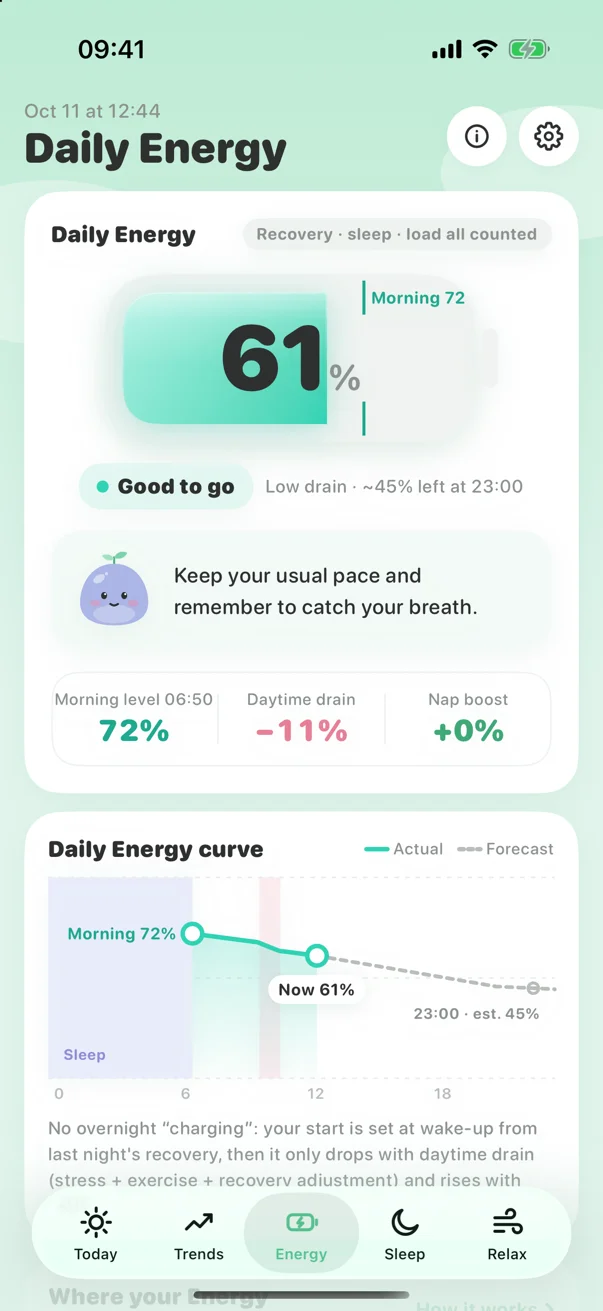
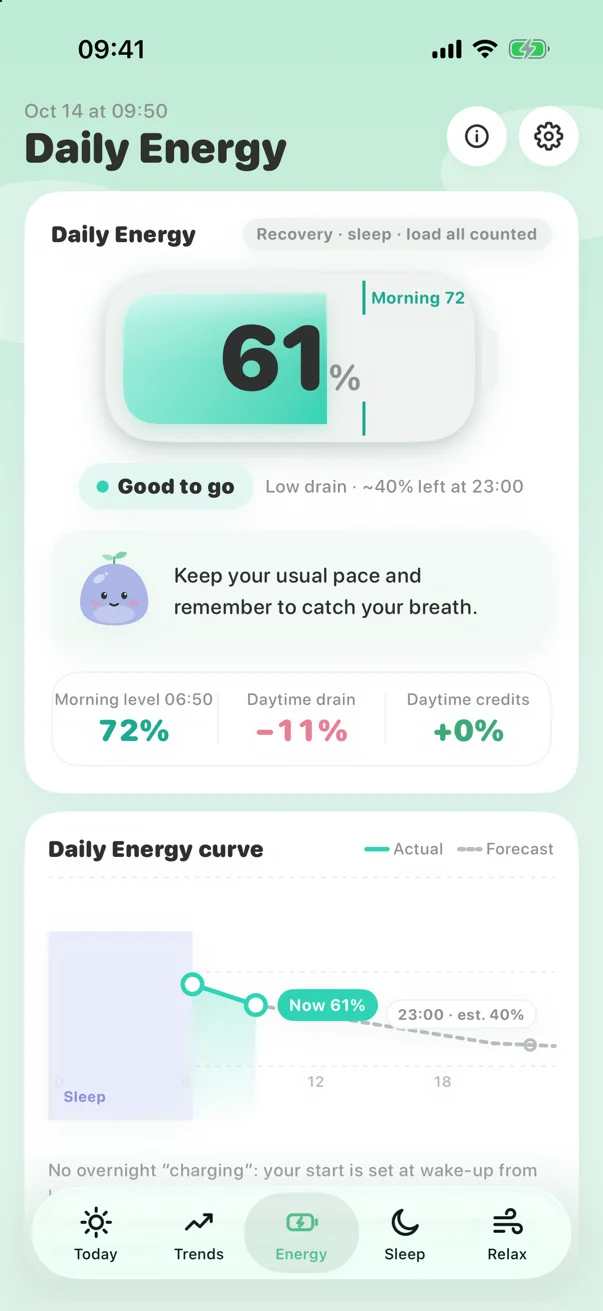
Features step 04: nap → daytime credits (sustained relax / breathing); reshoot Energy screen 白天回补 / Daytime credits (zh/en)

diff --git a/en/index.html b/en/index.html
@@ -14,7 +14,7 @@
 <div class="cta ld" style="--d:4"><a class="appstore" href="https://apps.apple.com/"><img src="../assets/badge-en-us.svg?v=a26fc5b383" alt="Download on the App Store" height="48"></a></div>
 <p class="req ld" style="--d:5">Requires iPhone with iOS 18 or later and a paired Apple Watch (watchOS 11 or later).</p></div>
 <div class="hvis"><div class="stage ld" style="--d:5"><div class="glow"></div>
-<div class="dev p1" data-px="-0.06"><img src="../assets/vigor-en.webp?v=c105740d5c" alt="" width="603" height="1311"></div>
+<div class="dev p1" data-px="-0.06"><img src="../assets/vigor-en.webp?v=96514615fa" alt="" width="603" height="1311"></div>
 <div class="dev p2" data-px="0"><img src="../assets/today-en.webp?v=0098471fe0" alt="Clairsy Today" width="603" height="1311"></div>
 <div class="dev wt" data-px="0.08"><img src="../assets/watch-en.webp?v=d67c154252" alt="Clairsy on Apple Watch" width="416" height="496"></div>
 <img class="mas" src="../assets/qingqing.svg?v=ae6b4a3a9c" alt="" width="135" height="135"></div></div></div></section>
@@ -23,7 +23,7 @@
 <div class="moods" role="group" aria-label="Meet Qingqing"><button type="button" class="mood on" data-mood="chill" aria-pressed="true"><img src="../assets/moods/chill.png?v=1ec6799918" alt="" width="56" height="56" loading="lazy"><span>Great</span></button><button type="button" class="mood" data-mood="steady" aria-pressed="false"><img src="../assets/moods/steady.png?v=08b04779e4" alt="" width="56" height="56" loading="lazy"><span>Normal</span></button><button type="button" class="mood" data-mood="tense" aria-pressed="false"><img src="../assets/moods/tense.png?v=b3b451586a" alt="" width="56" height="56" loading="lazy"><span>Elevated</span></button><button type="button" class="mood" data-mood="stressed" aria-pressed="false"><img src="../assets/moods/stressed.png?v=03b7959c35" alt="" width="56" height="56" loading="lazy"><span>Overload</span></button></div></div>
 <div class="meettxt"><h2>Meet Qingqing</h2><p>Qingqing lives on your wrist. It smiles when you’re at ease and frowns when stress creeps in. Each morning it tells you how much energy you’ve got, and when you’re running low it nudges you to wrap up early. When you need a breather, it breathes with you; with every check-in, it quietly learns your rhythm. Whenever you need it most, it’s there — quietly caring, always by your side.</p></div>
 </div></div></section>
-<section id="features" class="feat"><div class="wrap sgrid"><div class="steps"><div class="rail" aria-hidden="true"><i></i></div><div class="step reveal" data-step="0"><div class="stept"><span class="n" aria-hidden="true">01</span><h3>Stress, plain and clear</h3></div><p>HRV and resting heart rate become four clear levels — Great, Normal, Elevated, Overload — with a stress index and 7-day average. Quick mood check-ins calibrate it to how you actually feel.</p><div class="inl"><div class="duo"><div class="ph"><img src="../assets/today-en.webp?v=0098471fe0" alt="Clairsy Today" width="603" height="1311" loading="lazy"></div><div class="wa"><img src="../assets/watch-ultra-en.webp?v=8417fa780b" alt="Clairsy Status Gauge face on Apple Watch Ultra" width="416" height="496" loading="lazy"></div></div></div></div><div class="step reveal" data-step="1"><div class="stept"><span class="n" aria-hidden="true">02</span><h3>5-minute HRV refresh</h3></div><p>On Apple Watch Ultra 4 and Series 12, with Recovery HRV authorized, samples arrive about every 5 minutes and Clairsy switches to fast refresh — you’ll see it on Today as “Fast refresh · a few minutes ago.” Watch face and complications refresh too — in our testing, within about 5 minutes of a new sample (occasionally a little later when the system limits background updates).</p><div class="inl"><div class="duo"><div class="ph"><img src="../assets/hrv-en.webp?v=711db39cfe" alt="Today · Fast refresh" width="603" height="1311" loading="lazy"></div><div class="wa"><img src="../assets/watch-status-en.webp?v=80fe1e797e" alt="Clairsy on Apple Watch" width="416" height="496" loading="lazy"></div></div></div></div><div class="step reveal" data-step="2"><div class="stept"><span class="n" aria-hidden="true">03</span><h3>Custom alert frequency</h3></div><p>Three stress-alert modes: Low (default) sends one gentle nudge when you move up to Overload; Normal alerts after about 10 minutes in Elevated or Overload; Custom (Membership) reports your current status every 15 minutes to 4 hours. 15- and 30-minute intervals need a fast-refresh watch such as Series 12 or Ultra 4; on Series 11, Ultra 3 and earlier, Custom starts at 1 hour — or use Normal.</p><div class="inl"><div class="duo"><div class="ph"><img src="../assets/alerts-en.webp?v=3b4e01b3a4" alt="Stress alerts" width="603" height="1311" loading="lazy"></div><div class="wa"><img src="../assets/watch-alert-en.webp?v=2d64670a13" alt="Clairsy stress alert on Apple Watch" width="416" height="496" loading="lazy"></div></div></div></div><div class="step reveal" data-step="3"><div class="stept"><span class="n" aria-hidden="true">04</span><h3>Daily Energy — plan your day</h3></div><p>Each morning Clairsy sets your starting energy from last night’s sleep and recovery. Stress and activity drain it through the day, a nap tops it back up. See how much is left and where you’ll land by tonight, and Qingqing tells you when to push or ease off. Turn on Daily Energy alerts for one line each morning on how charged you are, and a single gentle nudge when you’re running low.</p><div class="inl"><div class="duo"><div class="ph"><img src="../assets/vigor-en.webp?v=c105740d5c" alt="Daily Energy" width="603" height="1311" loading="lazy"></div><div class="wa"><img src="../assets/watch-vigor-en.webp?v=c22f17e995" alt="Daily Energy on Apple Watch" width="416" height="496" loading="lazy"></div></div></div></div><div class="step reveal" data-step="4"><div class="stept"><span class="n" aria-hidden="true">05</span><h3>Sleep at a glance</h3></div><p>Last night’s duration, sleep score, 7-night sleep debt and stages — deep, core, REM and awake — all free, with Qingqing suggesting a bedtime. Membership adds in-depth sleep analysis.</p><div class="inl"><div class="ph"><img src="../assets/sleep-en.webp?v=5c2634cd5b" alt="Sleep" width="603" height="1311" loading="lazy"></div></div></div><div class="step reveal" data-step="5"><div class="stept"><span class="n" aria-hidden="true">06</span><h3>Trends you can see</h3></div><p>Day, week and month views of your HRV against your baseline, a breakdown of time spent Great, Normal, Elevated and Overload, and a stress heat map that shows when you tend to tense up. Trends are part of Clairsy Membership.</p><div class="inl"><div class="duo"><div class="ph"><img src="../assets/trends-en.webp?v=e3e7e69584" alt="Trends" width="603" height="1311" loading="lazy"></div><div class="wa"><img src="../assets/watch-today-en.webp?v=192cea627f" alt="Today’s stress timeline on Apple Watch" width="416" height="496" loading="lazy"></div></div></div></div><div class="step reveal" data-step="6"><div class="stept"><span class="n" aria-hidden="true">07</span><h3>Take a breather with Qingqing</h3></div><p>When stress spikes, tap Breathe — or jump in straight from a stress alert. The orb swells and settles with your breath while Qingqing breathes along; on Apple Watch, gentle haptics keep the rhythm so you don’t have to watch the screen, and a tap on the orb pauses or resumes. Choose resonance breathing, cyclic sighing, 4-7-8 or box breathing. Afterward, see how your readings changed — and your Today page remembers you just took a breather.</p><div class="inl"><div class="duo"><div class="ph"><img src="../assets/breath-en.webp?v=dd0da5266d" alt="Breathing exercise" width="603" height="1311" loading="lazy"></div><div class="wa"><img src="../assets/watch-breath-en.webp?v=02ed8562ae" alt="Breathe on Apple Watch" width="416" height="496" loading="lazy"></div></div></div></div></div><div class="sticky"><div class="devbox"><div class="frame on" data-frame="0"><div class="duo"><div class="ph"><img src="../assets/today-en.webp?v=0098471fe0" alt="Clairsy Today" width="603" height="1311" loading="lazy"></div><div class="wa"><img src="../assets/watch-ultra-en.webp?v=8417fa780b" alt="Clairsy Status Gauge face on Apple Watch Ultra" width="416" height="496" loading="lazy"></div></div></div><div class="frame" data-frame="1"><div class="duo"><div class="ph"><img src="../assets/hrv-en.webp?v=711db39cfe" alt="Today · Fast refresh" width="603" height="1311" loading="lazy"></div><div class="wa"><img src="../assets/watch-status-en.webp?v=80fe1e797e" alt="Clairsy on Apple Watch" width="416" height="496" loading="lazy"></div></div></div><div class="frame" data-frame="2"><div class="duo"><div class="ph"><img src="../assets/alerts-en.webp?v=3b4e01b3a4" alt="Stress alerts" width="603" height="1311" loading="lazy"></div><div class="wa"><img src="../assets/watch-alert-en.webp?v=2d64670a13" alt="Clairsy stress alert on Apple Watch" width="416" height="496" loading="lazy"></div></div></div><div class="frame" data-frame="3"><div class="duo"><div class="ph"><img src="../assets/vigor-en.webp?v=c105740d5c" alt="Daily Energy" width="603" height="1311" loading="lazy"></div><div class="wa"><img src="../assets/watch-vigor-en.webp?v=c22f17e995" alt="Daily Energy on Apple Watch" width="416" height="496" loading="lazy"></div></div></div><div class="frame" data-frame="4"><div class="ph"><img src="../assets/sleep-en.webp?v=5c2634cd5b" alt="Sleep" width="603" height="1311" loading="lazy"></div></div><div class="frame" data-frame="5"><div class="duo"><div class="ph"><img src="../assets/trends-en.webp?v=e3e7e69584" alt="Trends" width="603" height="1311" loading="lazy"></div><div class="wa"><img src="../assets/watch-today-en.webp?v=192cea627f" alt="Today’s stress timeline on Apple Watch" width="416" height="496" loading="lazy"></div></div></div><div class="frame" data-frame="6"><div class="duo"><div class="ph"><img src="../assets/breath-en.webp?v=dd0da5266d" alt="Breathing exercise" width="603" height="1311" loading="lazy"></div><div class="wa"><img src="../assets/watch-breath-en.webp?v=02ed8562ae" alt="Breathe on Apple Watch" width="416" height="496" loading="lazy"></div></div></div></div><div class="dots" aria-hidden="true"><i class="on"></i><i class=""></i><i class=""></i><i class=""></i><i class=""></i><i class=""></i><i class=""></i></div></div></div></section>
+<section id="features" class="feat"><div class="wrap sgrid"><div class="steps"><div class="rail" aria-hidden="true"><i></i></div><div class="step reveal" data-step="0"><div class="stept"><span class="n" aria-hidden="true">01</span><h3>Stress, plain and clear</h3></div><p>HRV and resting heart rate become four clear levels — Great, Normal, Elevated, Overload — with a stress index and 7-day average. Quick mood check-ins calibrate it to how you actually feel.</p><div class="inl"><div class="duo"><div class="ph"><img src="../assets/today-en.webp?v=0098471fe0" alt="Clairsy Today" width="603" height="1311" loading="lazy"></div><div class="wa"><img src="../assets/watch-ultra-en.webp?v=8417fa780b" alt="Clairsy Status Gauge face on Apple Watch Ultra" width="416" height="496" loading="lazy"></div></div></div></div><div class="step reveal" data-step="1"><div class="stept"><span class="n" aria-hidden="true">02</span><h3>5-minute HRV refresh</h3></div><p>On Apple Watch Ultra 4 and Series 12, with Recovery HRV authorized, samples arrive about every 5 minutes and Clairsy switches to fast refresh — you’ll see it on Today as “Fast refresh · a few minutes ago.” Watch face and complications refresh too — in our testing, within about 5 minutes of a new sample (occasionally a little later when the system limits background updates).</p><div class="inl"><div class="duo"><div class="ph"><img src="../assets/hrv-en.webp?v=711db39cfe" alt="Today · Fast refresh" width="603" height="1311" loading="lazy"></div><div class="wa"><img src="../assets/watch-status-en.webp?v=80fe1e797e" alt="Clairsy on Apple Watch" width="416" height="496" loading="lazy"></div></div></div></div><div class="step reveal" data-step="2"><div class="stept"><span class="n" aria-hidden="true">03</span><h3>Custom alert frequency</h3></div><p>Three stress-alert modes: Low (default) sends one gentle nudge when you move up to Overload; Normal alerts after about 10 minutes in Elevated or Overload; Custom (Membership) reports your current status every 15 minutes to 4 hours. 15- and 30-minute intervals need a fast-refresh watch such as Series 12 or Ultra 4; on Series 11, Ultra 3 and earlier, Custom starts at 1 hour — or use Normal.</p><div class="inl"><div class="duo"><div class="ph"><img src="../assets/alerts-en.webp?v=3b4e01b3a4" alt="Stress alerts" width="603" height="1311" loading="lazy"></div><div class="wa"><img src="../assets/watch-alert-en.webp?v=2d64670a13" alt="Clairsy stress alert on Apple Watch" width="416" height="496" loading="lazy"></div></div></div></div><div class="step reveal" data-step="3"><div class="stept"><span class="n" aria-hidden="true">04</span><h3>Daily Energy — plan your day</h3></div><p>Each morning Clairsy sets your starting energy from last night’s sleep and recovery. Stress and activity drain it through the day; sustained relax and breathing add some back (daytime credits). See how much is left and where you’ll land by tonight, and Qingqing tells you when to push or ease off. Turn on Daily Energy alerts for one line each morning on how charged you are, and a single gentle nudge when you’re running low.</p><div class="inl"><div class="duo"><div class="ph"><img src="../assets/vigor-en.webp?v=96514615fa" alt="Daily Energy" width="603" height="1311" loading="lazy"></div><div class="wa"><img src="../assets/watch-vigor-en.webp?v=c22f17e995" alt="Daily Energy on Apple Watch" width="416" height="496" loading="lazy"></div></div></div></div><div class="step reveal" data-step="4"><div class="stept"><span class="n" aria-hidden="true">05</span><h3>Sleep at a glance</h3></div><p>Last night’s duration, sleep score, 7-night sleep debt and stages — deep, core, REM and awake — all free, with Qingqing suggesting a bedtime. Membership adds in-depth sleep analysis.</p><div class="inl"><div class="ph"><img src="../assets/sleep-en.webp?v=5c2634cd5b" alt="Sleep" width="603" height="1311" loading="lazy"></div></div></div><div class="step reveal" data-step="5"><div class="stept"><span class="n" aria-hidden="true">06</span><h3>Trends you can see</h3></div><p>Day, week and month views of your HRV against your baseline, a breakdown of time spent Great, Normal, Elevated and Overload, and a stress heat map that shows when you tend to tense up. Trends are part of Clairsy Membership.</p><div class="inl"><div class="duo"><div class="ph"><img src="../assets/trends-en.webp?v=e3e7e69584" alt="Trends" width="603" height="1311" loading="lazy"></div><div class="wa"><img src="../assets/watch-today-en.webp?v=192cea627f" alt="Today’s stress timeline on Apple Watch" width="416" height="496" loading="lazy"></div></div></div></div><div class="step reveal" data-step="6"><div class="stept"><span class="n" aria-hidden="true">07</span><h3>Take a breather with Qingqing</h3></div><p>When stress spikes, tap Breathe — or jump in straight from a stress alert. The orb swells and settles with your breath while Qingqing breathes along; on Apple Watch, gentle haptics keep the rhythm so you don’t have to watch the screen, and a tap on the orb pauses or resumes. Choose resonance breathing, cyclic sighing, 4-7-8 or box breathing. Afterward, see how your readings changed — and your Today page remembers you just took a breather.</p><div class="inl"><div class="duo"><div class="ph"><img src="../assets/breath-en.webp?v=dd0da5266d" alt="Breathing exercise" width="603" height="1311" loading="lazy"></div><div class="wa"><img src="../assets/watch-breath-en.webp?v=02ed8562ae" alt="Breathe on Apple Watch" width="416" height="496" loading="lazy"></div></div></div></div></div><div class="sticky"><div class="devbox"><div class="frame on" data-frame="0"><div class="duo"><div class="ph"><img src="../assets/today-en.webp?v=0098471fe0" alt="Clairsy Today" width="603" height="1311" loading="lazy"></div><div class="wa"><img src="../assets/watch-ultra-en.webp?v=8417fa780b" alt="Clairsy Status Gauge face on Apple Watch Ultra" width="416" height="496" loading="lazy"></div></div></div><div class="frame" data-frame="1"><div class="duo"><div class="ph"><img src="../assets/hrv-en.webp?v=711db39cfe" alt="Today · Fast refresh" width="603" height="1311" loading="lazy"></div><div class="wa"><img src="../assets/watch-status-en.webp?v=80fe1e797e" alt="Clairsy on Apple Watch" width="416" height="496" loading="lazy"></div></div></div><div class="frame" data-frame="2"><div class="duo"><div class="ph"><img src="../assets/alerts-en.webp?v=3b4e01b3a4" alt="Stress alerts" width="603" height="1311" loading="lazy"></div><div class="wa"><img src="../assets/watch-alert-en.webp?v=2d64670a13" alt="Clairsy stress alert on Apple Watch" width="416" height="496" loading="lazy"></div></div></div><div class="frame" data-frame="3"><div class="duo"><div class="ph"><img src="../assets/vigor-en.webp?v=96514615fa" alt="Daily Energy" width="603" height="1311" loading="lazy"></div><div class="wa"><img src="../assets/watch-vigor-en.webp?v=c22f17e995" alt="Daily Energy on Apple Watch" width="416" height="496" loading="lazy"></div></div></div><div class="frame" data-frame="4"><div class="ph"><img src="../assets/sleep-en.webp?v=5c2634cd5b" alt="Sleep" width="603" height="1311" loading="lazy"></div></div><div class="frame" data-frame="5"><div class="duo"><div class="ph"><img src="../assets/trends-en.webp?v=e3e7e69584" alt="Trends" width="603" height="1311" loading="lazy"></div><div class="wa"><img src="../assets/watch-today-en.webp?v=192cea627f" alt="Today’s stress timeline on Apple Watch" width="416" height="496" loading="lazy"></div></div></div><div class="frame" data-frame="6"><div class="duo"><div class="ph"><img src="../assets/breath-en.webp?v=dd0da5266d" alt="Breathing exercise" width="603" height="1311" loading="lazy"></div><div class="wa"><img src="../assets/watch-breath-en.webp?v=02ed8562ae" alt="Breathe on Apple Watch" width="416" height="496" loading="lazy"></div></div></div></div><div class="dots" aria-hidden="true"><i class="on"></i><i class=""></i><i class=""></i><i class=""></i><i class=""></i><i class=""></i><i class=""></i></div></div></div></section>
 <section id="privacy" class="priv"><div class="wrap"><img class="shield reveal" src="../assets/icons/in-short-shield.svg?v=a273304543" alt="" width="56" height="56"><h2 class="reveal">Private by design.</h2><p class="lede reveal">Clairsy only reads the Health data you allow it to read, and does all of its calculations on your iPhone and Apple Watch. We have no servers. We never upload your data to us or to anyone else, and we never use it for advertising.</p>
 <div class="tiles"><div class="tile reveal"><img class="ti" src="../assets/icons/on-device.svg?v=f5730aa8c3" alt="" aria-hidden="true"><b>On-device only</b><small>No servers — nothing is uploaded</small></div><div class="tile reveal"><img class="ti" src="../assets/icons/no-account.svg?v=5d09475955" alt="" aria-hidden="true"><b>No account</b><small>No sign-up, no login</small></div><div class="tile reveal"><img class="ti" src="../assets/icons/no-tracking.svg?v=b4618fe82b" alt="" aria-hidden="true"><b>No tracking</b><small>No ads, no analytics SDKs</small></div><div class="tile reveal"><img class="ti" src="../assets/icons/read-only-health.svg?v=f1765cbfee" alt="" aria-hidden="true"><b>Read-only Health</b><small>Clairsy never writes to Health</small></div></div><p class="plink reveal"><a href="privacy/">Read the Privacy Policy ›</a></p></div></section>
 <section class="mem"><div class="wrap"><div class="memhead reveal"><span class="mpill"><img class="ic xs" src="../assets/icons/membership.svg?v=d99b7184ce" alt="" aria-hidden="true">MEMBERSHIP</span><h2>Free to start, membership when you want more</h2></div>

diff --git a/zh/index.html b/zh/index.html
@@ -14,7 +14,7 @@
 <div class="cta ld" style="--d:4"><a class="appstore" href="https://apps.apple.com/"><img src="../assets/badge-zh-cn.svg?v=65191b2d11" alt="在 App Store 下载" height="48"></a></div>
 <p class="req ld" style="--d:5">需要 iOS 18 或更高版本的 iPhone，并配对 Apple Watch（watchOS 11 或更高版本）。</p></div>
 <div class="hvis"><div class="stage ld" style="--d:5"><div class="glow"></div>
-<div class="dev p1" data-px="-0.06"><img src="../assets/vigor.webp?v=dfa2228dbb" alt="" width="603" height="1311"></div>
+<div class="dev p1" data-px="-0.06"><img src="../assets/vigor.webp?v=54719cf11a" alt="" width="603" height="1311"></div>
 <div class="dev p2" data-px="0"><img src="../assets/today-zh.webp?v=3d693c9e05" alt="Clairsy Today" width="603" height="1311"></div>
 <div class="dev wt" data-px="0.08"><img src="../assets/watch.webp?v=ed6af9df60" alt="Clairsy on Apple Watch" width="416" height="496"></div>
 <img class="mas" src="../assets/qingqing.svg?v=ae6b4a3a9c" alt="" width="135" height="135"></div></div></div></section>
@@ -23,7 +23,7 @@
 <div class="moods" role="group" aria-label="认识晴晴"><button type="button" class="mood on" data-mood="chill" aria-pressed="true"><img src="../assets/moods/chill.png?v=1ec6799918" alt="" width="56" height="56" loading="lazy"><span>真巴适</span></button><button type="button" class="mood" data-mood="steady" aria-pressed="false"><img src="../assets/moods/steady.png?v=08b04779e4" alt="" width="56" height="56" loading="lazy"><span>hold住</span></button><button type="button" class="mood" data-mood="tense" aria-pressed="false"><img src="../assets/moods/tense.png?v=b3b451586a" alt="" width="56" height="56" loading="lazy"><span>有点烦</span></button><button type="button" class="mood" data-mood="stressed" aria-pressed="false"><img src="../assets/moods/stressed.png?v=03b7959c35" alt="" width="56" height="56" loading="lazy"><span>鸭梨大</span></button></div></div>
 <div class="meettxt"><h2>认识晴晴</h2><p>晴晴是住在你手腕上的小伙伴。你轻松时它眯眼笑，压力一上来它也跟着皱眉。早上它会告诉你今天的元气还剩多少，累了就提醒你早点收工。想缓一缓时，它陪你一呼一吸；每一次打卡，它都悄悄记下，慢慢读懂你的节奏。它总能在你最需要的时候，默默关心你，陪伴你！</p></div>
 </div></div></section>
-<section id="features" class="feat"><div class="wrap sgrid"><div class="steps"><div class="rail" aria-hidden="true"><i></i></div><div class="step reveal" data-step="0"><div class="stept"><span class="n" aria-hidden="true">01</span><h3>压力一眼看懂</h3></div><p>HRV 和静息心率与你的个人基线比较，一眼看出四档：真巴适、hold住、有点烦、鸭梨大，并给出压力指数和 7 日均值。随手打卡此刻感受，帮它校准到你的真实体感。</p><div class="inl"><div class="duo"><div class="ph"><img src="../assets/today-zh.webp?v=3d693c9e05" alt="Clairsy Today" width="603" height="1311" loading="lazy"></div><div class="wa"><img src="../assets/watch-ultra-zh.webp?v=36eac9ea85" alt="Clairsy Status Gauge face on Apple Watch Ultra" width="416" height="496" loading="lazy"></div></div></div></div><div class="step reveal" data-step="1"><div class="stept"><span class="n" aria-hidden="true">02</span><h3>5分钟 HRV 极速刷新</h3></div><p>在 Apple Watch Ultra 4 和 Series 12 上授权「恢复 HRV」后，样本最快约 5 分钟一次，Clairsy 自动进入极速刷新——今日页会显示「极速刷新 · N 分钟前」。表盘和复杂功能也会同步刷新，实测新样本后约 5 分钟内跟上（偶尔受系统后台额度影响会稍晚）。</p><div class="inl"><div class="duo"><div class="ph"><img src="../assets/hrv-zh.webp?v=d180db7a6f" alt="今日 · 极速刷新" width="603" height="1311" loading="lazy"></div><div class="wa"><img src="../assets/watch-status-zh.webp?v=9cf2dee778" alt="Clairsy on Apple Watch" width="416" height="496" loading="lazy"></div></div></div></div><div class="step reveal" data-step="2"><div class="stept"><span class="n" aria-hidden="true">03</span><h3>自定义通知频率</h3></div><p>压力提醒有三档：低频（默认）只在状态升入「鸭梨大」时轻轻提醒一次；普通在「有点烦」或「鸭梨大」持续约 10 分钟后提醒；自定义频率（会员）按 15 分钟到 4 小时的间隔播报此刻状态。15 / 30 分钟需要 Series 12、Ultra 4 等支持极速刷新的手表；Series 11、Ultra 3 及更早机型自定义从 1 小时起，或选普通档。</p><div class="inl"><div class="duo"><div class="ph"><img src="../assets/alerts-zh.webp?v=9ad0ef0657" alt="压力提醒" width="603" height="1311" loading="lazy"></div><div class="wa"><img src="../assets/watch-alert-zh.webp?v=819838a7f3" alt="Clairsy stress alert on Apple Watch" width="416" height="496" loading="lazy"></div></div></div></div><div class="step reveal" data-step="3"><div class="stept"><span class="n" aria-hidden="true">04</span><h3>今日元气，安排好你的一天</h3></div><p>早上醒来，Clairsy 会根据昨夜睡眠和身体恢复情况，给你今天的元气起点。白天压力、运动会慢慢消耗它，午睡能补回一点。还剩多少、照这个节奏晚上会剩多少，一眼就知道。晴晴会提醒你该冲还是该缓，别等透支了才发现。开启「今日元气提醒」，早上一句话告诉你今天底子如何，元气见底时轻轻提醒一次。</p><div class="inl"><div class="duo"><div class="ph"><img src="../assets/vigor.webp?v=dfa2228dbb" alt="Daily Energy" width="603" height="1311" loading="lazy"></div><div class="wa"><img src="../assets/watch-vigor-zh.webp?v=fe0658d17a" alt="Daily Energy on Apple Watch" width="416" height="496" loading="lazy"></div></div></div></div><div class="step reveal" data-step="4"><div class="stept"><span class="n" aria-hidden="true">05</span><h3>睡眠一眼看懂</h3></div><p>昨夜睡眠时长、睡眠得分、近 7 晚睡眠负债，以及深睡、浅睡、REM、清醒分期，全部免费；晴晴还会建议今晚几点前睡。会员解锁深度睡眠分析。</p><div class="inl"><div class="ph"><img src="../assets/sleep-zh.webp?v=679f96642c" alt="睡眠" width="603" height="1311" loading="lazy"></div></div></div><div class="step reveal" data-step="5"><div class="stept"><span class="n" aria-hidden="true">06</span><h3>趋势看得见</h3></div><p>按日、周、月查看 HRV 与个人基线的对比、真巴适 / hold住 / 有点烦 / 鸭梨大各占多少时间，还有压力热力图，看清自己一般几点最紧绷。趋势为 Clairsy 会员功能。</p><div class="inl"><div class="duo"><div class="ph"><img src="../assets/trends-zh.webp?v=80457499c8" alt="趋势" width="603" height="1311" loading="lazy"></div><div class="wa"><img src="../assets/watch-today-zh.webp?v=bc18fa4160" alt="Today’s stress timeline on Apple Watch" width="416" height="496" loading="lazy"></div></div></div></div><div class="step reveal" data-step="6"><div class="stept"><span class="n" aria-hidden="true">07</span><h3>缓一口气，晴晴陪你</h3></div><p>压力一上来，点「缓一下」就能开始，压力提醒也能直接跳进来。光球跟着节奏一胀一缩，晴晴陪你一起吸气、呼气。手表上用震动带节奏，不用盯着屏幕，点一下光球就能暂停或继续。共振呼吸、循环叹息、4-7-8、方块呼吸四种方式任选。练完会对比前后的读数，告诉你缓得怎么样，今日页也会留下「刚刚缓过」的记录。</p><div class="inl"><div class="duo"><div class="ph"><img src="../assets/breath-zh.webp?v=1e5c2805f1" alt="呼吸减压" width="603" height="1311" loading="lazy"></div><div class="wa"><img src="../assets/watch-breath-zh.webp?v=5c191de065" alt="Breathe on Apple Watch" width="416" height="496" loading="lazy"></div></div></div></div></div><div class="sticky"><div class="devbox"><div class="frame on" data-frame="0"><div class="duo"><div class="ph"><img src="../assets/today-zh.webp?v=3d693c9e05" alt="Clairsy Today" width="603" height="1311" loading="lazy"></div><div class="wa"><img src="../assets/watch-ultra-zh.webp?v=36eac9ea85" alt="Clairsy Status Gauge face on Apple Watch Ultra" width="416" height="496" loading="lazy"></div></div></div><div class="frame" data-frame="1"><div class="duo"><div class="ph"><img src="../assets/hrv-zh.webp?v=d180db7a6f" alt="今日 · 极速刷新" width="603" height="1311" loading="lazy"></div><div class="wa"><img src="../assets/watch-status-zh.webp?v=9cf2dee778" alt="Clairsy on Apple Watch" width="416" height="496" loading="lazy"></div></div></div><div class="frame" data-frame="2"><div class="duo"><div class="ph"><img src="../assets/alerts-zh.webp?v=9ad0ef0657" alt="压力提醒" width="603" height="1311" loading="lazy"></div><div class="wa"><img src="../assets/watch-alert-zh.webp?v=819838a7f3" alt="Clairsy stress alert on Apple Watch" width="416" height="496" loading="lazy"></div></div></div><div class="frame" data-frame="3"><div class="duo"><div class="ph"><img src="../assets/vigor.webp?v=dfa2228dbb" alt="Daily Energy" width="603" height="1311" loading="lazy"></div><div class="wa"><img src="../assets/watch-vigor-zh.webp?v=fe0658d17a" alt="Daily Energy on Apple Watch" width="416" height="496" loading="lazy"></div></div></div><div class="frame" data-frame="4"><div class="ph"><img src="../assets/sleep-zh.webp?v=679f96642c" alt="睡眠" width="603" height="1311" loading="lazy"></div></div><div class="frame" data-frame="5"><div class="duo"><div class="ph"><img src="../assets/trends-zh.webp?v=80457499c8" alt="趋势" width="603" height="1311" loading="lazy"></div><div class="wa"><img src="../assets/watch-today-zh.webp?v=bc18fa4160" alt="Today’s stress timeline on Apple Watch" width="416" height="496" loading="lazy"></div></div></div><div class="frame" data-frame="6"><div class="duo"><div class="ph"><img src="../assets/breath-zh.webp?v=1e5c2805f1" alt="呼吸减压" width="603" height="1311" loading="lazy"></div><div class="wa"><img src="../assets/watch-breath-zh.webp?v=5c191de065" alt="Breathe on Apple Watch" width="416" height="496" loading="lazy"></div></div></div></div><div class="dots" aria-hidden="true"><i class="on"></i><i class=""></i><i class=""></i><i class=""></i><i class=""></i><i class=""></i><i class=""></i></div></div></div></section>
+<section id="features" class="feat"><div class="wrap sgrid"><div class="steps"><div class="rail" aria-hidden="true"><i></i></div><div class="step reveal" data-step="0"><div class="stept"><span class="n" aria-hidden="true">01</span><h3>压力一眼看懂</h3></div><p>HRV 和静息心率与你的个人基线比较，一眼看出四档：真巴适、hold住、有点烦、鸭梨大，并给出压力指数和 7 日均值。随手打卡此刻感受，帮它校准到你的真实体感。</p><div class="inl"><div class="duo"><div class="ph"><img src="../assets/today-zh.webp?v=3d693c9e05" alt="Clairsy Today" width="603" height="1311" loading="lazy"></div><div class="wa"><img src="../assets/watch-ultra-zh.webp?v=36eac9ea85" alt="Clairsy Status Gauge face on Apple Watch Ultra" width="416" height="496" loading="lazy"></div></div></div></div><div class="step reveal" data-step="1"><div class="stept"><span class="n" aria-hidden="true">02</span><h3>5分钟 HRV 极速刷新</h3></div><p>在 Apple Watch Ultra 4 和 Series 12 上授权「恢复 HRV」后，样本最快约 5 分钟一次，Clairsy 自动进入极速刷新——今日页会显示「极速刷新 · N 分钟前」。表盘和复杂功能也会同步刷新，实测新样本后约 5 分钟内跟上（偶尔受系统后台额度影响会稍晚）。</p><div class="inl"><div class="duo"><div class="ph"><img src="../assets/hrv-zh.webp?v=d180db7a6f" alt="今日 · 极速刷新" width="603" height="1311" loading="lazy"></div><div class="wa"><img src="../assets/watch-status-zh.webp?v=9cf2dee778" alt="Clairsy on Apple Watch" width="416" height="496" loading="lazy"></div></div></div></div><div class="step reveal" data-step="2"><div class="stept"><span class="n" aria-hidden="true">03</span><h3>自定义通知频率</h3></div><p>压力提醒有三档：低频（默认）只在状态升入「鸭梨大」时轻轻提醒一次；普通在「有点烦」或「鸭梨大」持续约 10 分钟后提醒；自定义频率（会员）按 15 分钟到 4 小时的间隔播报此刻状态。15 / 30 分钟需要 Series 12、Ultra 4 等支持极速刷新的手表；Series 11、Ultra 3 及更早机型自定义从 1 小时起，或选普通档。</p><div class="inl"><div class="duo"><div class="ph"><img src="../assets/alerts-zh.webp?v=9ad0ef0657" alt="压力提醒" width="603" height="1311" loading="lazy"></div><div class="wa"><img src="../assets/watch-alert-zh.webp?v=819838a7f3" alt="Clairsy stress alert on Apple Watch" width="416" height="496" loading="lazy"></div></div></div></div><div class="step reveal" data-step="3"><div class="stept"><span class="n" aria-hidden="true">04</span><h3>今日元气，安排好你的一天</h3></div><p>早上醒来，Clairsy 会根据昨夜睡眠和身体恢复情况，给你今天的元气起点。白天压力、运动会慢慢消耗它，持续放松和呼吸练习能补回一点（白天回补）。还剩多少、照这个节奏晚上会剩多少，一眼就知道。晴晴会提醒你该冲还是该缓，别等透支了才发现。开启「今日元气提醒」，早上一句话告诉你今天底子如何，元气见底时轻轻提醒一次。</p><div class="inl"><div class="duo"><div class="ph"><img src="../assets/vigor.webp?v=54719cf11a" alt="Daily Energy" width="603" height="1311" loading="lazy"></div><div class="wa"><img src="../assets/watch-vigor-zh.webp?v=fe0658d17a" alt="Daily Energy on Apple Watch" width="416" height="496" loading="lazy"></div></div></div></div><div class="step reveal" data-step="4"><div class="stept"><span class="n" aria-hidden="true">05</span><h3>睡眠一眼看懂</h3></div><p>昨夜睡眠时长、睡眠得分、近 7 晚睡眠负债，以及深睡、浅睡、REM、清醒分期，全部免费；晴晴还会建议今晚几点前睡。会员解锁深度睡眠分析。</p><div class="inl"><div class="ph"><img src="../assets/sleep-zh.webp?v=679f96642c" alt="睡眠" width="603" height="1311" loading="lazy"></div></div></div><div class="step reveal" data-step="5"><div class="stept"><span class="n" aria-hidden="true">06</span><h3>趋势看得见</h3></div><p>按日、周、月查看 HRV 与个人基线的对比、真巴适 / hold住 / 有点烦 / 鸭梨大各占多少时间，还有压力热力图，看清自己一般几点最紧绷。趋势为 Clairsy 会员功能。</p><div class="inl"><div class="duo"><div class="ph"><img src="../assets/trends-zh.webp?v=80457499c8" alt="趋势" width="603" height="1311" loading="lazy"></div><div class="wa"><img src="../assets/watch-today-zh.webp?v=bc18fa4160" alt="Today’s stress timeline on Apple Watch" width="416" height="496" loading="lazy"></div></div></div></div><div class="step reveal" data-step="6"><div class="stept"><span class="n" aria-hidden="true">07</span><h3>缓一口气，晴晴陪你</h3></div><p>压力一上来，点「缓一下」就能开始，压力提醒也能直接跳进来。光球跟着节奏一胀一缩，晴晴陪你一起吸气、呼气。手表上用震动带节奏，不用盯着屏幕，点一下光球就能暂停或继续。共振呼吸、循环叹息、4-7-8、方块呼吸四种方式任选。练完会对比前后的读数，告诉你缓得怎么样，今日页也会留下「刚刚缓过」的记录。</p><div class="inl"><div class="duo"><div class="ph"><img src="../assets/breath-zh.webp?v=1e5c2805f1" alt="呼吸减压" width="603" height="1311" loading="lazy"></div><div class="wa"><img src="../assets/watch-breath-zh.webp?v=5c191de065" alt="Breathe on Apple Watch" width="416" height="496" loading="lazy"></div></div></div></div></div><div class="sticky"><div class="devbox"><div class="frame on" data-frame="0"><div class="duo"><div class="ph"><img src="../assets/today-zh.webp?v=3d693c9e05" alt="Clairsy Today" width="603" height="1311" loading="lazy"></div><div class="wa"><img src="../assets/watch-ultra-zh.webp?v=36eac9ea85" alt="Clairsy Status Gauge face on Apple Watch Ultra" width="416" height="496" loading="lazy"></div></div></div><div class="frame" data-frame="1"><div class="duo"><div class="ph"><img src="../assets/hrv-zh.webp?v=d180db7a6f" alt="今日 · 极速刷新" width="603" height="1311" loading="lazy"></div><div class="wa"><img src="../assets/watch-status-zh.webp?v=9cf2dee778" alt="Clairsy on Apple Watch" width="416" height="496" loading="lazy"></div></div></div><div class="frame" data-frame="2"><div class="duo"><div class="ph"><img src="../assets/alerts-zh.webp?v=9ad0ef0657" alt="压力提醒" width="603" height="1311" loading="lazy"></div><div class="wa"><img src="../assets/watch-alert-zh.webp?v=819838a7f3" alt="Clairsy stress alert on Apple Watch" width="416" height="496" loading="lazy"></div></div></div><div class="frame" data-frame="3"><div class="duo"><div class="ph"><img src="../assets/vigor.webp?v=54719cf11a" alt="Daily Energy" width="603" height="1311" loading="lazy"></div><div class="wa"><img src="../assets/watch-vigor-zh.webp?v=fe0658d17a" alt="Daily Energy on Apple Watch" width="416" height="496" loading="lazy"></div></div></div><div class="frame" data-frame="4"><div class="ph"><img src="../assets/sleep-zh.webp?v=679f96642c" alt="睡眠" width="603" height="1311" loading="lazy"></div></div><div class="frame" data-frame="5"><div class="duo"><div class="ph"><img src="../assets/trends-zh.webp?v=80457499c8" alt="趋势" width="603" height="1311" loading="lazy"></div><div class="wa"><img src="../assets/watch-today-zh.webp?v=bc18fa4160" alt="Today’s stress timeline on Apple Watch" width="416" height="496" loading="lazy"></div></div></div><div class="frame" data-frame="6"><div class="duo"><div class="ph"><img src="../assets/breath-zh.webp?v=1e5c2805f1" alt="呼吸减压" width="603" height="1311" loading="lazy"></div><div class="wa"><img src="../assets/watch-breath-zh.webp?v=5c191de065" alt="Breathe on Apple Watch" width="416" height="496" loading="lazy"></div></div></div></div><div class="dots" aria-hidden="true"><i class="on"></i><i class=""></i><i class=""></i><i class=""></i><i class=""></i><i class=""></i><i class=""></i></div></div></div></section>
 <section id="privacy" class="priv"><div class="wrap"><img class="shield reveal" src="../assets/icons/in-short-shield.svg?v=a273304543" alt="" width="56" height="56"><h2 class="reveal">隐私，从设计开始。</h2><p class="lede reveal">Clairsy 只读取你授权的「健康」数据，所有计算都在你的 iPhone 和 Apple Watch 上完成。我们没有服务器，不会把你的任何数据上传给我们或任何第三方，也不会把数据用于广告。</p>
 <div class="tiles"><div class="tile reveal"><img class="ti" src="../assets/icons/on-device.svg?v=f5730aa8c3" alt="" aria-hidden="true"><b>仅在设备上计算</b><small>没有服务器，什么都不上传</small></div><div class="tile reveal"><img class="ti" src="../assets/icons/no-account.svg?v=5d09475955" alt="" aria-hidden="true"><b>无需账号</b><small>不用注册，不用登录</small></div><div class="tile reveal"><img class="ti" src="../assets/icons/no-tracking.svg?v=b4618fe82b" alt="" aria-hidden="true"><b>不追踪</b><small>无广告，无统计分析 SDK</small></div><div class="tile reveal"><img class="ti" src="../assets/icons/read-only-health.svg?v=f1765cbfee" alt="" aria-hidden="true"><b>只读健康数据</b><small>Clairsy 从不写入「健康」</small></div></div><p class="plink reveal"><a href="privacy/">阅读隐私政策 ›</a></p></div></section>
 <section class="mem"><div class="wrap"><div class="memhead reveal"><span class="mpill"><img class="ic xs" src="../assets/icons/membership.svg?v=d99b7184ce" alt="" aria-hidden="true">会员</span><h2>免费开始，想要更多再开会员</h2></div>

diff --git a/build.py b/build.py
@@ -27,7 +27,7 @@ T = {
   cards=[('Stress, plain and clear','HRV and resting heart rate become four clear levels — Great, Normal, Elevated, Overload — with a stress index and 7-day average. Quick mood check-ins calibrate it to how you actually feel.'),
          ('5-minute HRV refresh','On Apple Watch Ultra 4 and Series 12, with Recovery HRV authorized, samples arrive about every 5 minutes and Clairsy switches to fast refresh — you’ll see it on Today as “Fast refresh · a few minutes ago.” Watch face and complications refresh too — in our testing, within about 5 minutes of a new sample (occasionally a little later when the system limits background updates).'),
          ('Custom alert frequency','Three stress-alert modes: Low (default) sends one gentle nudge when you move up to Overload; Normal alerts after about 10 minutes in Elevated or Overload; Custom (Membership) reports your current status every 15 minutes to 4 hours. 15- and 30-minute intervals need a fast-refresh watch such as Series 12 or Ultra 4; on Series 11, Ultra 3 and earlier, Custom starts at 1 hour — or use Normal.'),
-         ('Daily Energy — plan your day','Each morning Clairsy sets your starting energy from last night’s sleep and recovery. Stress and activity drain it through the day, a nap tops it back up. See how much is left and where you’ll land by tonight, and Qingqing tells you when to push or ease off. Turn on Daily Energy alerts for one line each morning on how charged you are, and a single gentle nudge when you’re running low.'),
+         ('Daily Energy — plan your day','Each morning Clairsy sets your starting energy from last night’s sleep and recovery. Stress and activity drain it through the day; sustained relax and breathing add some back (daytime credits). See how much is left and where you’ll land by tonight, and Qingqing tells you when to push or ease off. Turn on Daily Energy alerts for one line each morning on how charged you are, and a single gentle nudge when you’re running low.'),
          ('Sleep at a glance','Last night’s duration, sleep score, 7-night sleep debt and stages — deep, core, REM and awake — all free, with Qingqing suggesting a bedtime. Membership adds in-depth sleep analysis.'),
          ('Trends you can see','Day, week and month views of your HRV against your baseline, a breakdown of time spent Great, Normal, Elevated and Overload, and a stress heat map that shows when you tend to tense up. Trends are part of Clairsy Membership.'),
          ('Take a breather with Qingqing','When stress spikes, tap Breathe — or jump in straight from a stress alert. The orb swells and settles with your breath while Qingqing breathes along; on Apple Watch, gentle haptics keep the rhythm so you don’t have to watch the screen, and a tap on the orb pauses or resumes. Choose resonance breathing, cyclic sighing, 4-7-8 or box breathing. Afterward, see how your readings changed — and your Today page remembers you just took a breather.')],
@@ -63,7 +63,7 @@ T = {
   cards=[('压力一眼看懂','HRV 和静息心率与你的个人基线比较，一眼看出四档：真巴适、hold住、有点烦、鸭梨大，并给出压力指数和 7 日均值。随手打卡此刻感受，帮它校准到你的真实体感。'),
          ('5分钟 HRV 极速刷新','在 Apple Watch Ultra 4 和 Series 12 上授权「恢复 HRV」后，样本最快约 5 分钟一次，Clairsy 自动进入极速刷新——今日页会显示「极速刷新 · N 分钟前」。表盘和复杂功能也会同步刷新，实测新样本后约 5 分钟内跟上（偶尔受系统后台额度影响会稍晚）。'),
          ('自定义通知频率','压力提醒有三档：低频（默认）只在状态升入「鸭梨大」时轻轻提醒一次；普通在「有点烦」或「鸭梨大」持续约 10 分钟后提醒；自定义频率（会员）按 15 分钟到 4 小时的间隔播报此刻状态。15 / 30 分钟需要 Series 12、Ultra 4 等支持极速刷新的手表；Series 11、Ultra 3 及更早机型自定义从 1 小时起，或选普通档。'),
-         ('今日元气，安排好你的一天','早上醒来，Clairsy 会根据昨夜睡眠和身体恢复情况，给你今天的元气起点。白天压力、运动会慢慢消耗它，午睡能补回一点。还剩多少、照这个节奏晚上会剩多少，一眼就知道。晴晴会提醒你该冲还是该缓，别等透支了才发现。开启「今日元气提醒」，早上一句话告诉你今天底子如何，元气见底时轻轻提醒一次。'),
+         ('今日元气，安排好你的一天','早上醒来，Clairsy 会根据昨夜睡眠和身体恢复情况，给你今天的元气起点。白天压力、运动会慢慢消耗它，持续放松和呼吸练习能补回一点（白天回补）。还剩多少、照这个节奏晚上会剩多少，一眼就知道。晴晴会提醒你该冲还是该缓，别等透支了才发现。开启「今日元气提醒」，早上一句话告诉你今天底子如何，元气见底时轻轻提醒一次。'),
          ('睡眠一眼看懂','昨夜睡眠时长、睡眠得分、近 7 晚睡眠负债，以及深睡、浅睡、REM、清醒分期，全部免费；晴晴还会建议今晚几点前睡。会员解锁深度睡眠分析。'),
          ('趋势看得见','按日、周、月查看 HRV 与个人基线的对比、真巴适 / hold住 / 有点烦 / 鸭梨大各占多少时间，还有压力热力图，看清自己一般几点最紧绷。趋势为 Clairsy 会员功能。'),
          ('缓一口气，晴晴陪你','压力一上来，点「缓一下」就能开始，压力提醒也能直接跳进来。光球跟着节奏一胀一缩，晴晴陪你一起吸气、呼气。手表上用震动带节奏，不用盯着屏幕，点一下光球就能暂停或继续。共振呼吸、循环叹息、4-7-8、方块呼吸四种方式任选。练完会对比前后的读数，告诉你缓得怎么样，今日页也会留下「刚刚缓过」的记录。')],
